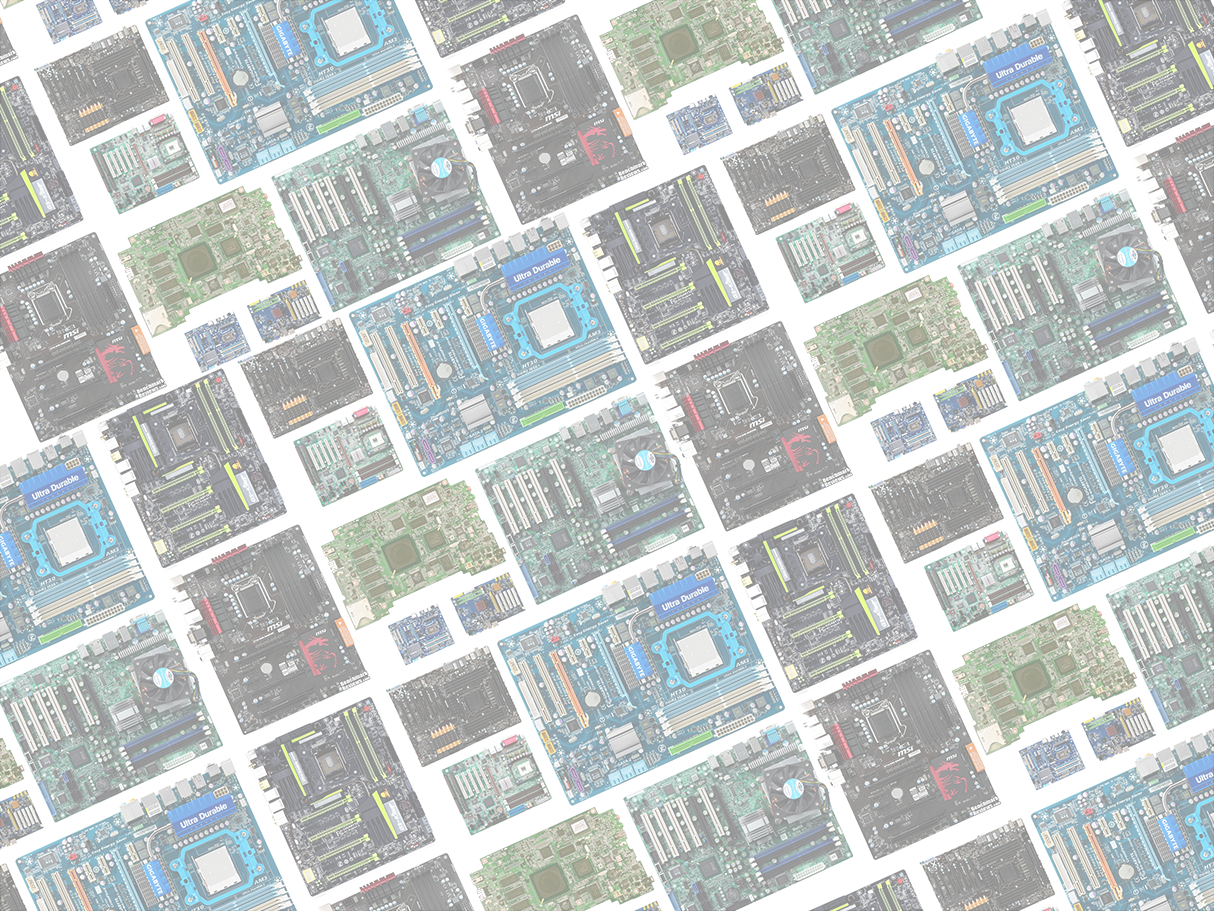
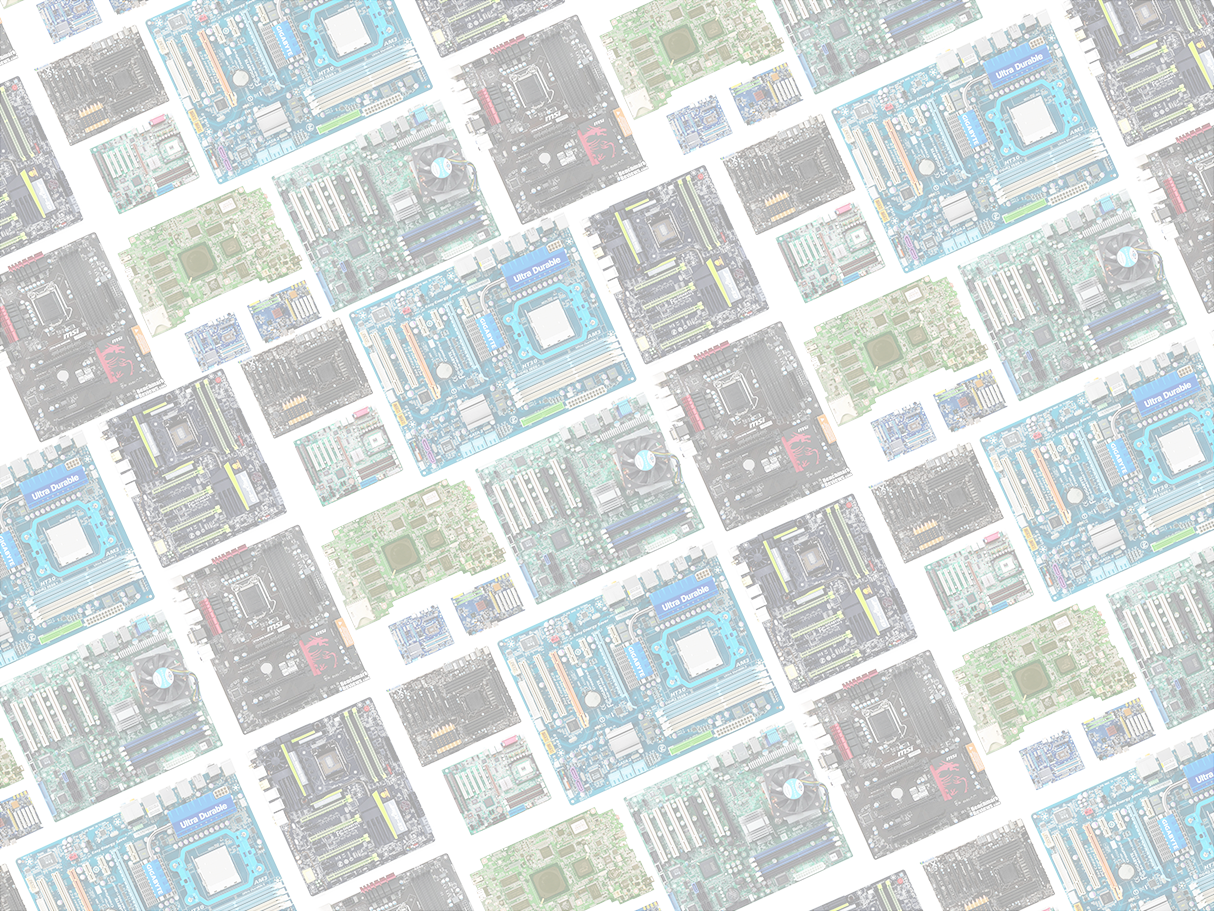
random colors

diff --git a/Assets/MotherViewController.cs b/Assets/MotherViewController.cs
@@ -17,6 +17,9 @@ public class MotherViewController : MonoBehaviour {
 	[SerializeField]
 	UILabel description;
 
+	[SerializeField]
+	UISprite bg;
+
     Motherboard motherboard;
 
     public void setSelected(bool selected) {
@@ -78,6 +81,9 @@ public class MotherViewController : MonoBehaviour {
 		} else {
 			description.text = "";
 		}
+
+		bg.spriteName = "mbg" + UnityEngine.Random.Range(1, 4);
+		bg.MarkAsChanged ();
     }
 
     public Motherboard getMotherboard()
